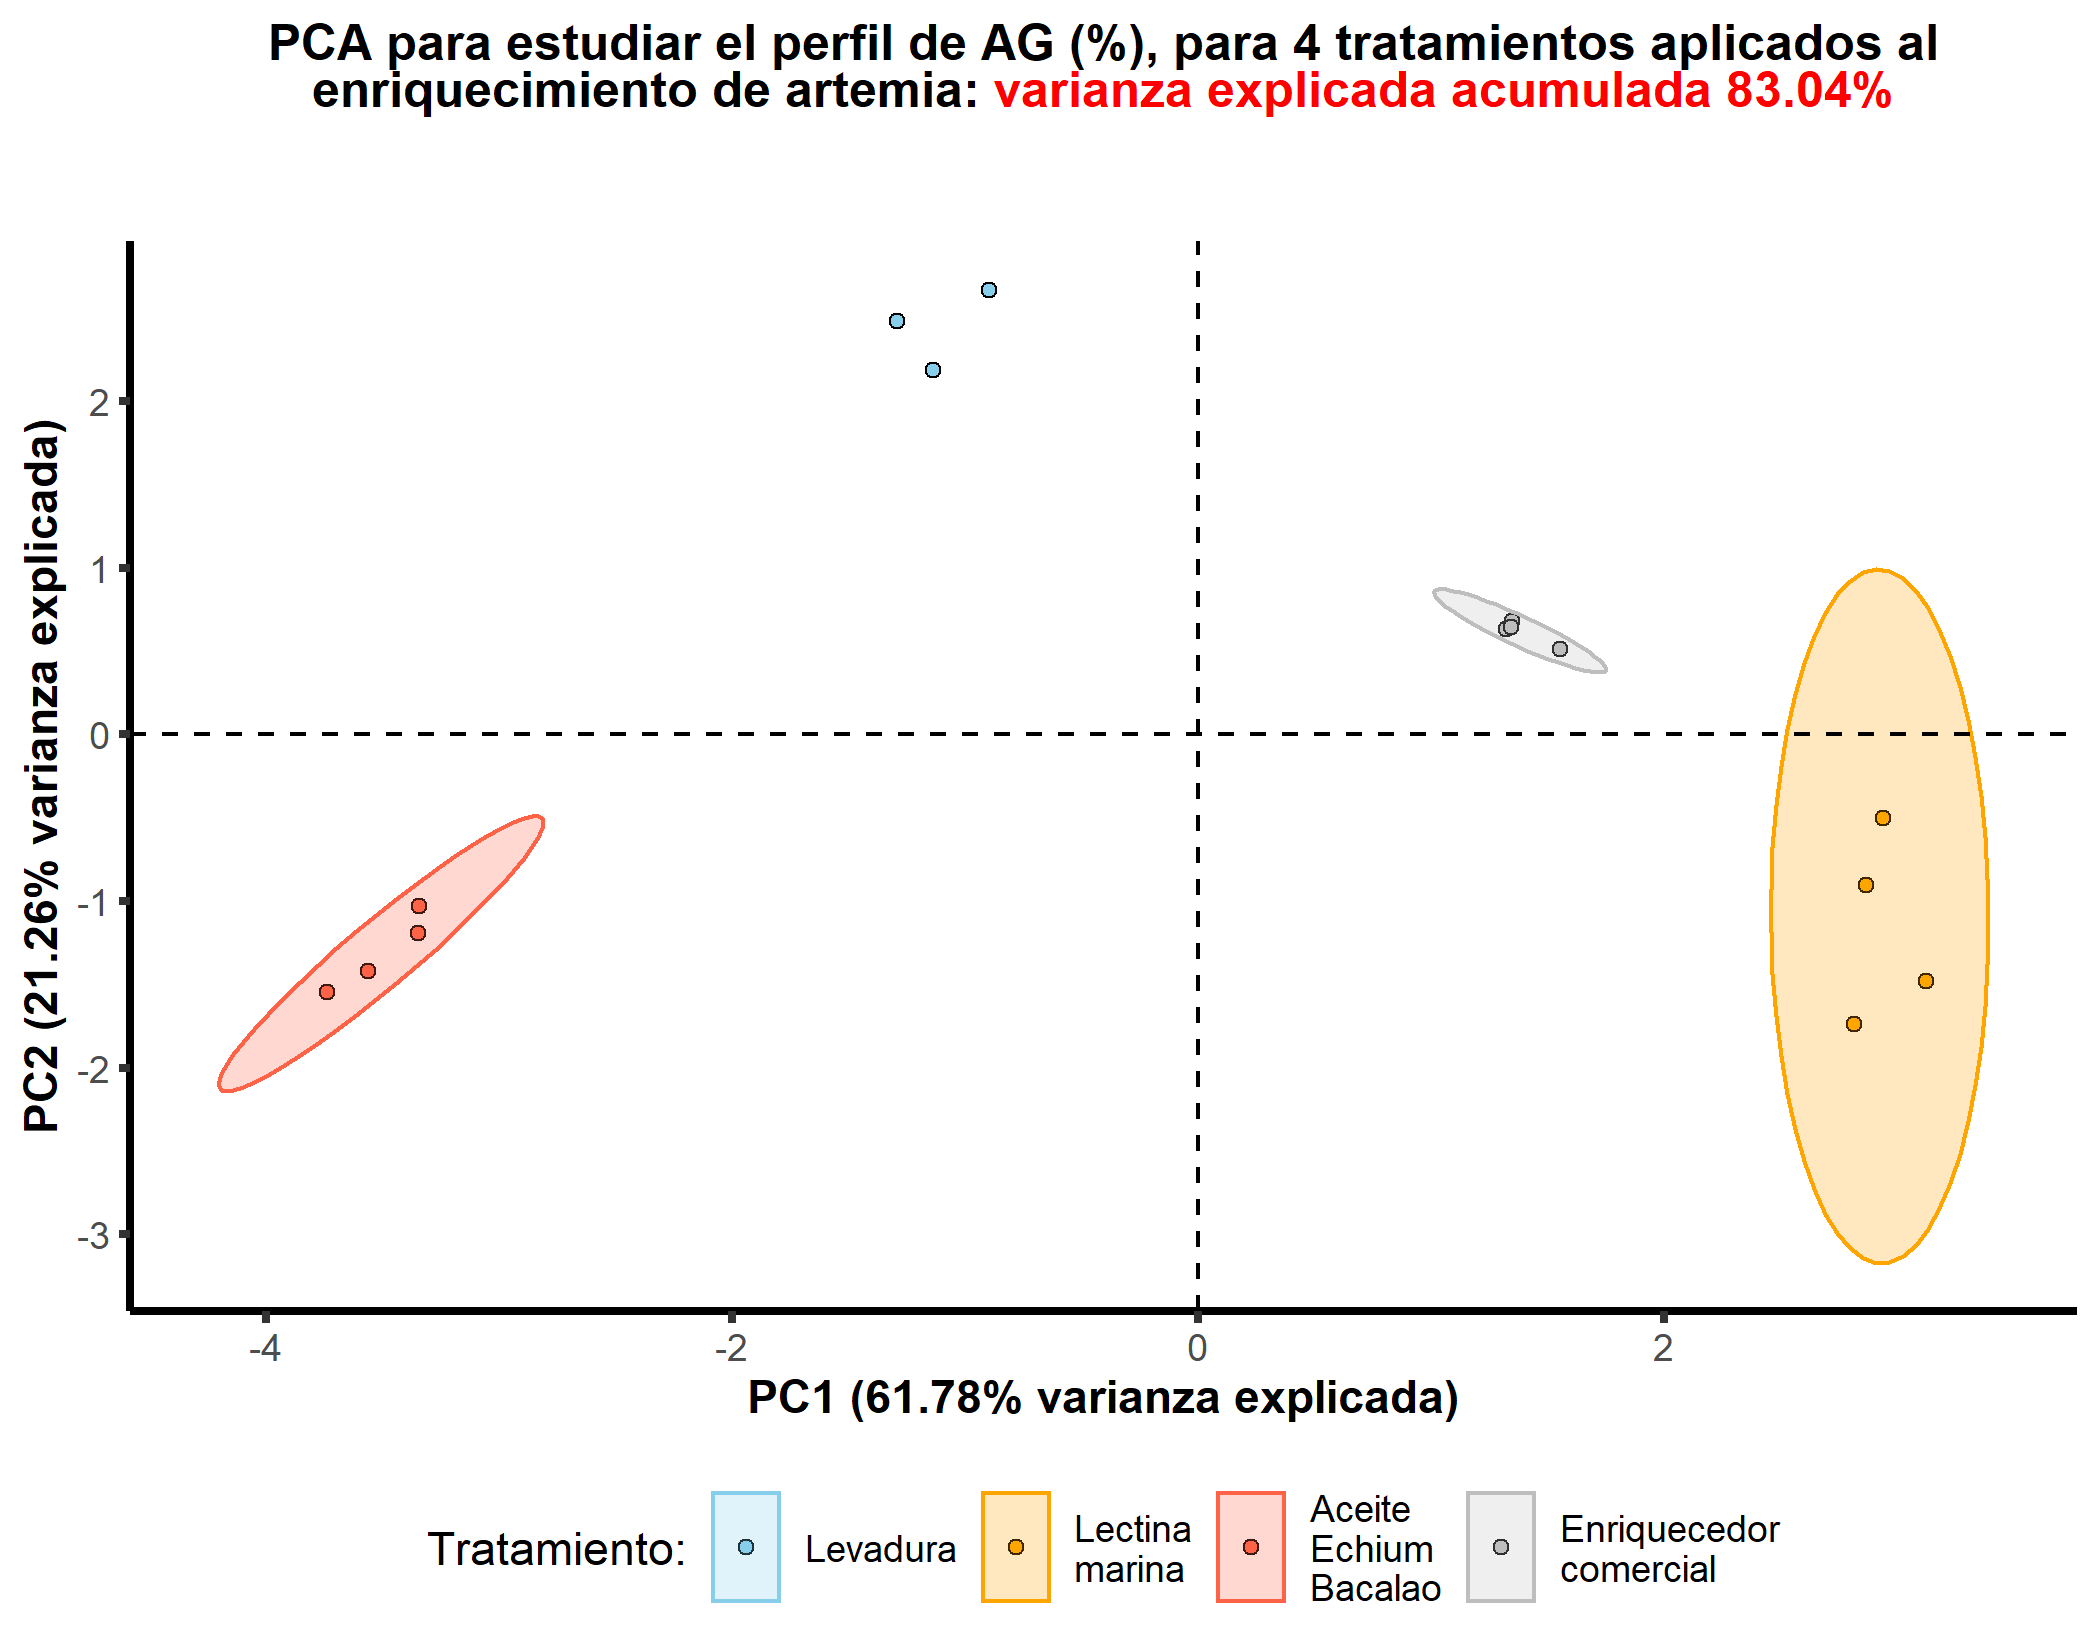
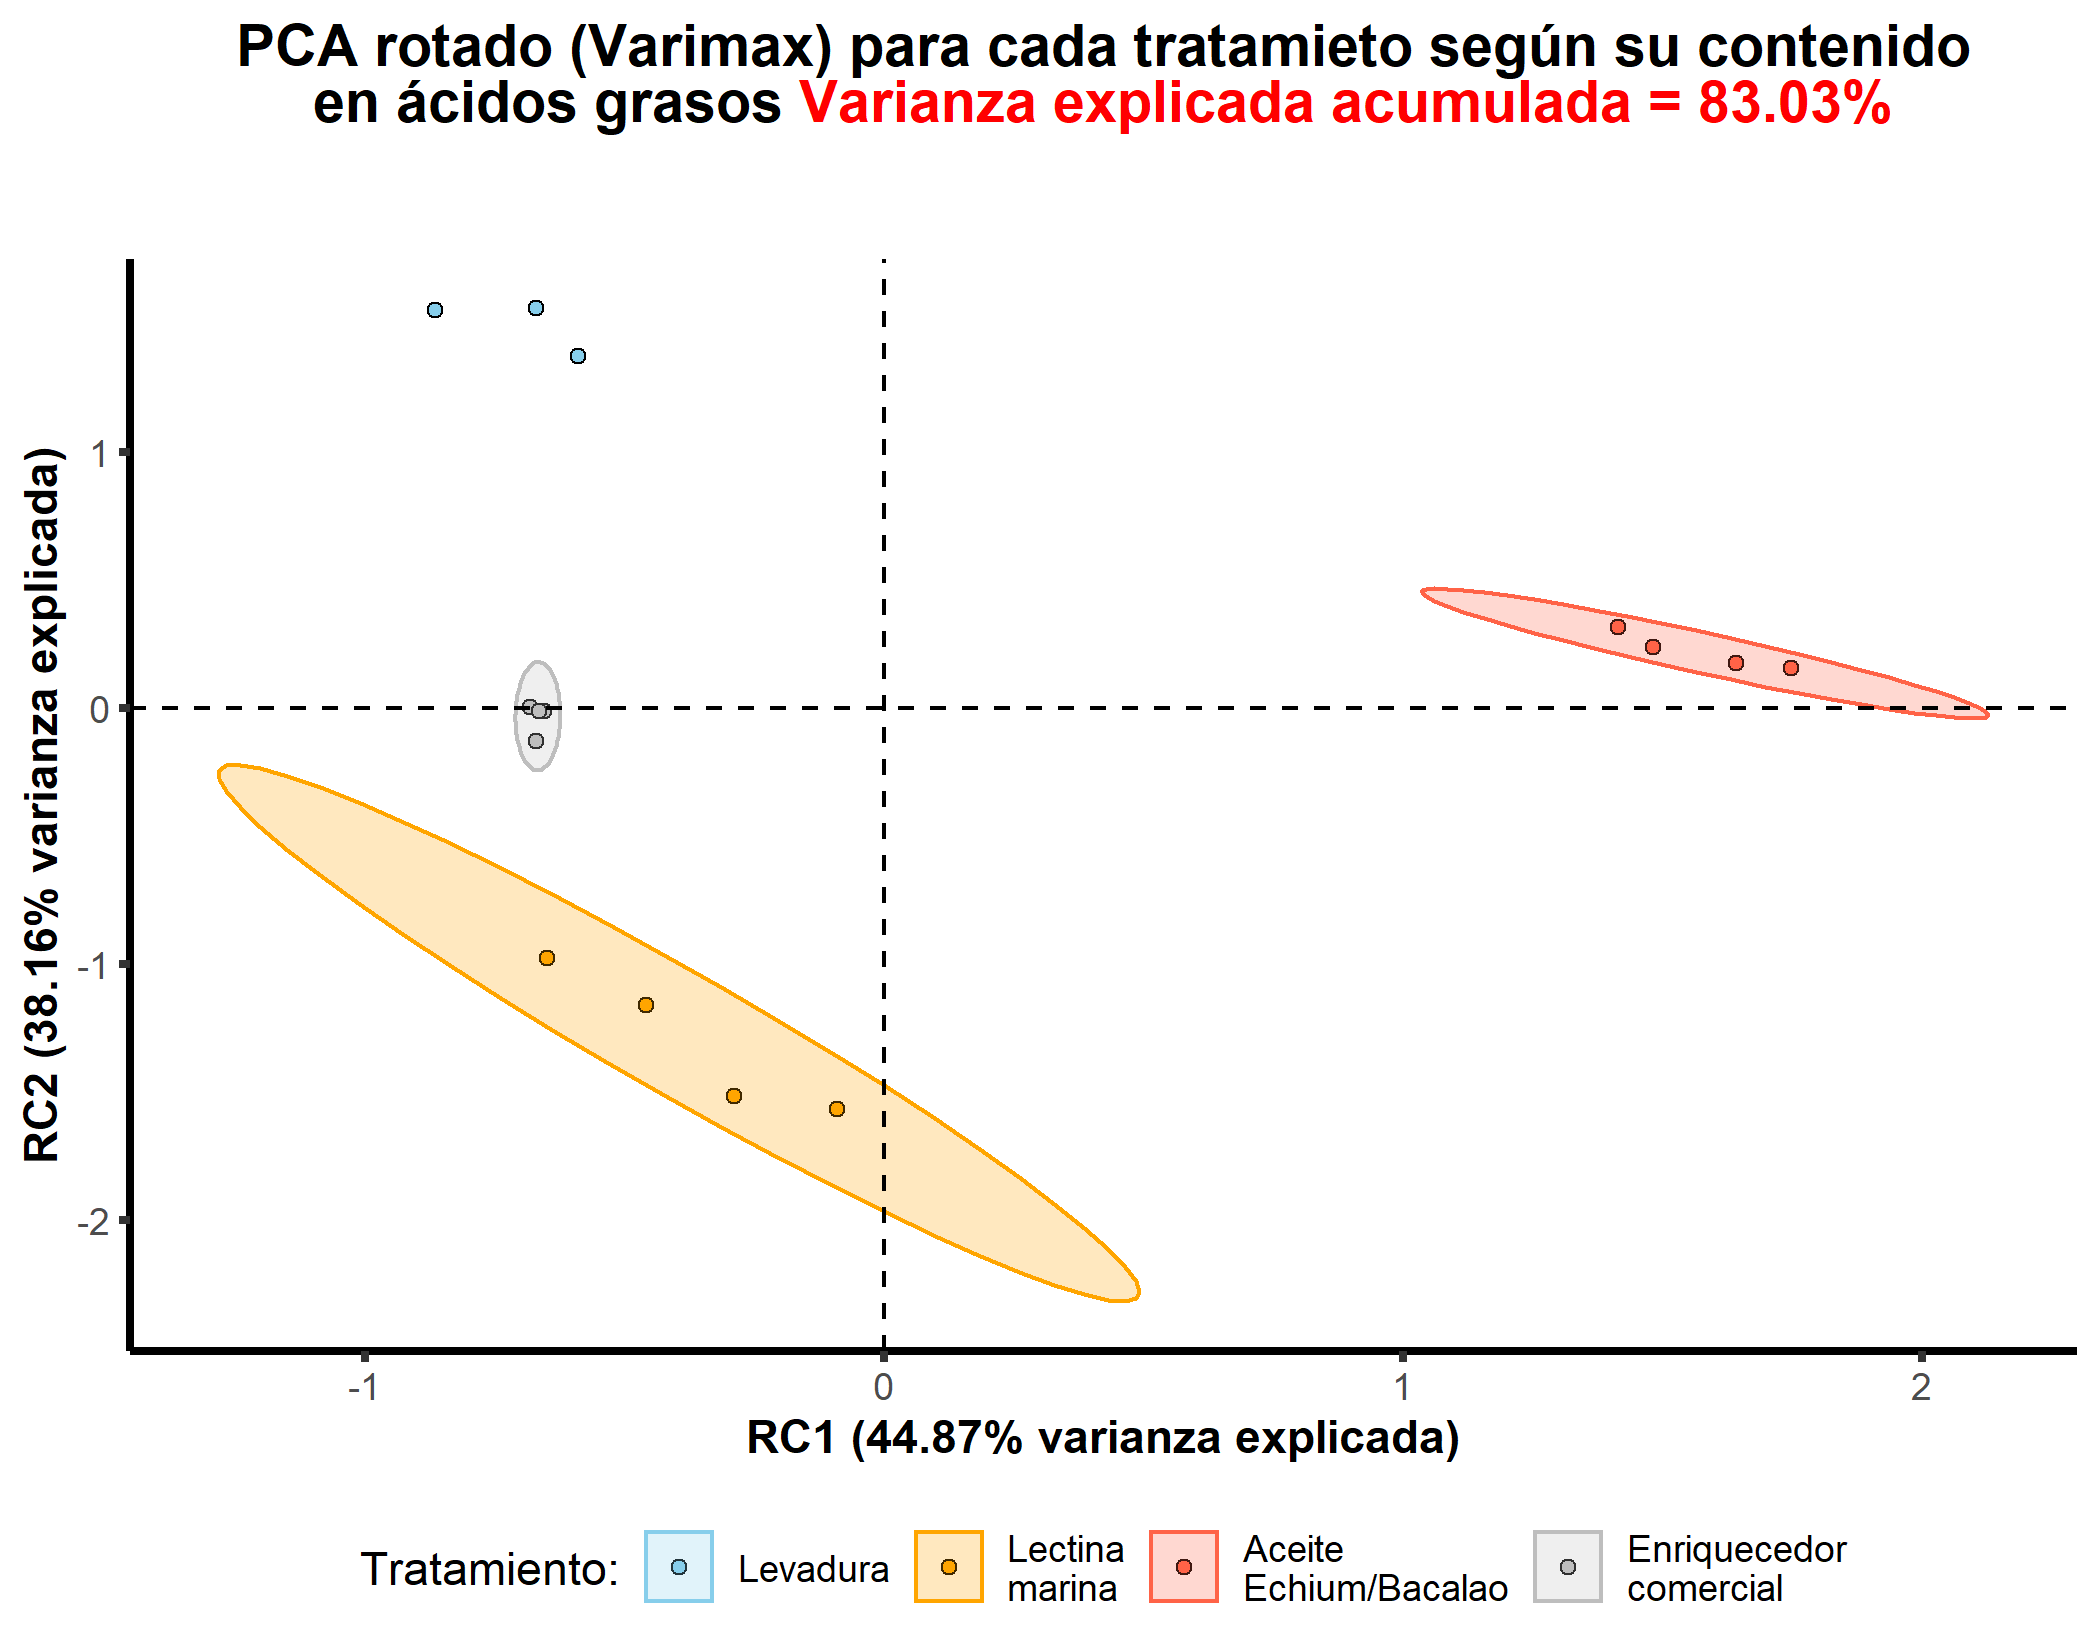
FAA/

diff --git a/FAA/artemias_sripts_datos/artemias_2022/README.md b/FAA/artemias_sripts_datos/artemias_2022/README.md
@@ -157,6 +157,7 @@ Esto puede deberse a que, a dos motivos.
 * *Hay evidencia de que este experimento es reproducible o parcialmente al menos. Obetiéndose los mismos resultados a partir de los mismos pasos.*
 * *Pero sin embargo, me suena que como la práctica estaba muy próxima a las evaluaciones de enero, con lo que los profesores no tenían tiempo físico para obtener los resultados de nuestras muestras. Con lo cual estos resultados serían de alumnos del curso pasado, que podrían haber sido usados tanto para las prácticas de informática como para esta.*
 * *Aún así, el segundo caso sigue defendiendo que el experimento es reproducible, en caso de que se hicieran dos veces para cada práctica. Pero eso yo ya no lo sé. Simplemente es una observación.*
+* En el caso de Levadura, a uno de los cormatogramas les faltaba la segunda página con los porcentajes de área, de tal manera que se pierde el resultado de una de las muestras, y ```ggplot``` no puede computar el resultado de este estadístico.
 ---  
 ### En cuanto a los resultados de inferencia para las componentes:
 
@@ -164,26 +165,26 @@ PC1: Se usó Kruskal-Wallis y debido a diferencias significativas, se usó como 
 
 ```
 # A tibble: 6 x 4
-  componentes comparacion1              comparacion2              significacion
-  <chr>       <chr>                     <chr>                     <chr>        
-1 PC1         "Levadura"                "Lectina\nmarina"         ns           
-2 PC1         "Levadura"                "Aceite\nEchium\nBacalao" ns           
-3 PC1         "Levadura"                "Enriquecedor\ncomercial" ns           
-4 PC1         "Lectina\nmarina"         "Aceite\nEchium\nBacalao" **           
-5 PC1         "Lectina\nmarina"         "Enriquecedor\ncomercial" ns           
-6 PC1         "Aceite\nEchium\nBacalao" "Enriquecedor\ncomercial" ns       
+  componentes comparacion1           comparacion2           significacion
+  <chr>       <chr>                  <chr>                  <chr>
+1 RC1         Echium/Bacalao         Enriquecedor comercial ****
+2 RC1         Echium/Bacalao         Lectina marina         ****
+3 RC1         Echium/Bacalao         Levadura               ****
+4 RC1         Enriquecedor comercial Lectina marina         ns
+5 RC1         Enriquecedor comercial Levadura               ns
+6 RC1         Lectina marina         Levadura               ns   
 ```
 
 PC2: Se usó Games-Howels
 
 ```
 # A tibble: 6 x 4
-  componentes comparacion1              comparacion2              significacion
-  <chr>       <chr>                     <chr>                     <chr>
-1 PC2         "Levadura"                "Lectina\nmarina"         ***
-2 PC2         "Levadura"                "Aceite\nEchium\nBacalao" ****
-3 PC2         "Levadura"                "Enriquecedor\ncomercial" **
-4 PC2         "Lectina\nmarina"         "Aceite\nEchium\nBacalao" ns
-5 PC2         "Lectina\nmarina"         "Enriquecedor\ncomercial" *
-6 PC2         "Aceite\nEchium\nBacalao" "Enriquecedor\ncomercial" ***
+  componentes comparacion1           comparacion2           significacion
+  <chr>       <chr>                  <chr>                  <chr>
+1 RC2         Echium/Bacalao         Enriquecedor comercial **
+2 RC2         Echium/Bacalao         Lectina marina         **
+3 RC2         Echium/Bacalao         Levadura               ***
+4 RC2         Enriquecedor comercial Lectina marina         **
+5 RC2         Enriquecedor comercial Levadura               ***
+6 RC2         Lectina marina         Levadura               ***
 ```

diff --git a/FAA/artemias_sripts_datos/Desarrollo.md b/FAA/artemias_sripts_datos/Desarrollo.md
@@ -535,7 +535,38 @@ ggplot(aes(PC1, PC2, color = variable_categorica)) +
 
 --- 
 
-### **Nota sobre el PCA:** recuerda que para sacar una interpretación biológica de este gráfico, tienes que estudiar las componentes por separado, es decir, PC1 y PC2 son independientes. Otra cosa que deberías hacer y está en el script del pca, es realizar inferencia estadística (ANOVA, kruskal...) para cada componente, para ver si los grupos presentan diferencias significativas. 
+## ***Aún así, es aconsejable realizar técnicas de rotación, con las componentes que expliquen una mayor varianza y hayamos decidido trabajar con ellas. En este caso PC1 y PC2.***
+
+La idea de rotar las componentes, teóricamente y estadísticamente hablando,  es adquirir un mayor nivel de interpretación de los datos.
+
+Para ello una técnica muy utilizada es ```varimax```, para ello se usaría el siguiente código ultilizando la función ```principal()``` de la librería ```psysch```:
+
+```
+library(psych)
+rpca <- principal(matrix.artem.num,         # Usamos nuestra base de datos
+                  nfactors = 2,             # Selecionamos las dos primeras componentes
+                  rotate = "varimax",       # La técnica de rotación que usaremos 
+                  scores = TRUE)
+
+```
+
+En ese sentido, al graficar, utilizaríamos los ```scores``` (valores de las componentes 1 y 2 rotadas) que nos proporciona esta función.
+
+Y lo siguiente sería realizar el mismo gráfico de las componentes, pero esta vez con los rotados. Obteniendo como resultado:
+
+---
+
+<p align="center">
+<img src="https://github.com/Juankkar/cuarto_carrera/blob/main/FAA/artemias_sripts_datos/graficas/rpca.png">
+</p>
+
+***Figura 5.*** Análisis de componentes principales para distintos tratamientos de diverso contenido de ácidos grasos.
+
+--- 
+
+### **Nota sobre el PCA (rotado o no):** recuerda que para sacar una interpretación biológica de este gráfico, tienes que estudiar las componentes por separado, es decir, PC1 y PC2 son independientes (aunque la que tienen más varianza explicada en principio es la que más peso tiene). Otra cosa que deberías hacer y está en el script del pca rotado, es realizar inferencia estadística (ANOVA, kruskal...) para cada componente, para ver si los grupos presentan diferencias significativas. 
+
+---
 
 Como he dicho, no es mi intención dar una interpretación del PCA, pero si necesitas un ejemplo, lo he hecho en mis resultados del TFG. Hice un PCA con una interpretación muy sencilla, tenía un patrón biológico claro sobre la biometría de las tortugas rescatadas por la Tahonilla. 
 
@@ -548,5 +579,5 @@ Por último, probé gráficos 3D de otra librería de ```plotly```. Podemos aña
 Igualmente, te advierto que este gráfico es una flipada en verdad porque en la práctica ¿adivina qué? Las memorias que hagas son en 2D, con lo cual de nada te sirve una imagen 3D no interactiva en 2D. Es más, te preguntarás por qué no lo he subido aquí, si GitHub permite subir este tipo de gráficos... bueno ... Literal el archivo en HTML es tan grande que no se puede ver aquí. Todos mis spripts de R en este directorio no suman casi ni 1% en comparación con ese archivo. Lástima, hay otras librerías que hacen este cometido como ```rgl```, y puedes conseguir un GIF de la imagen en 3D con un peso infinitamente menor, pero no es de tanta calidad como plotly. 
 
 
-### **It si over**
-Espero que te sirva =)
+## **It si over**
+### Espero que te sirva =)
